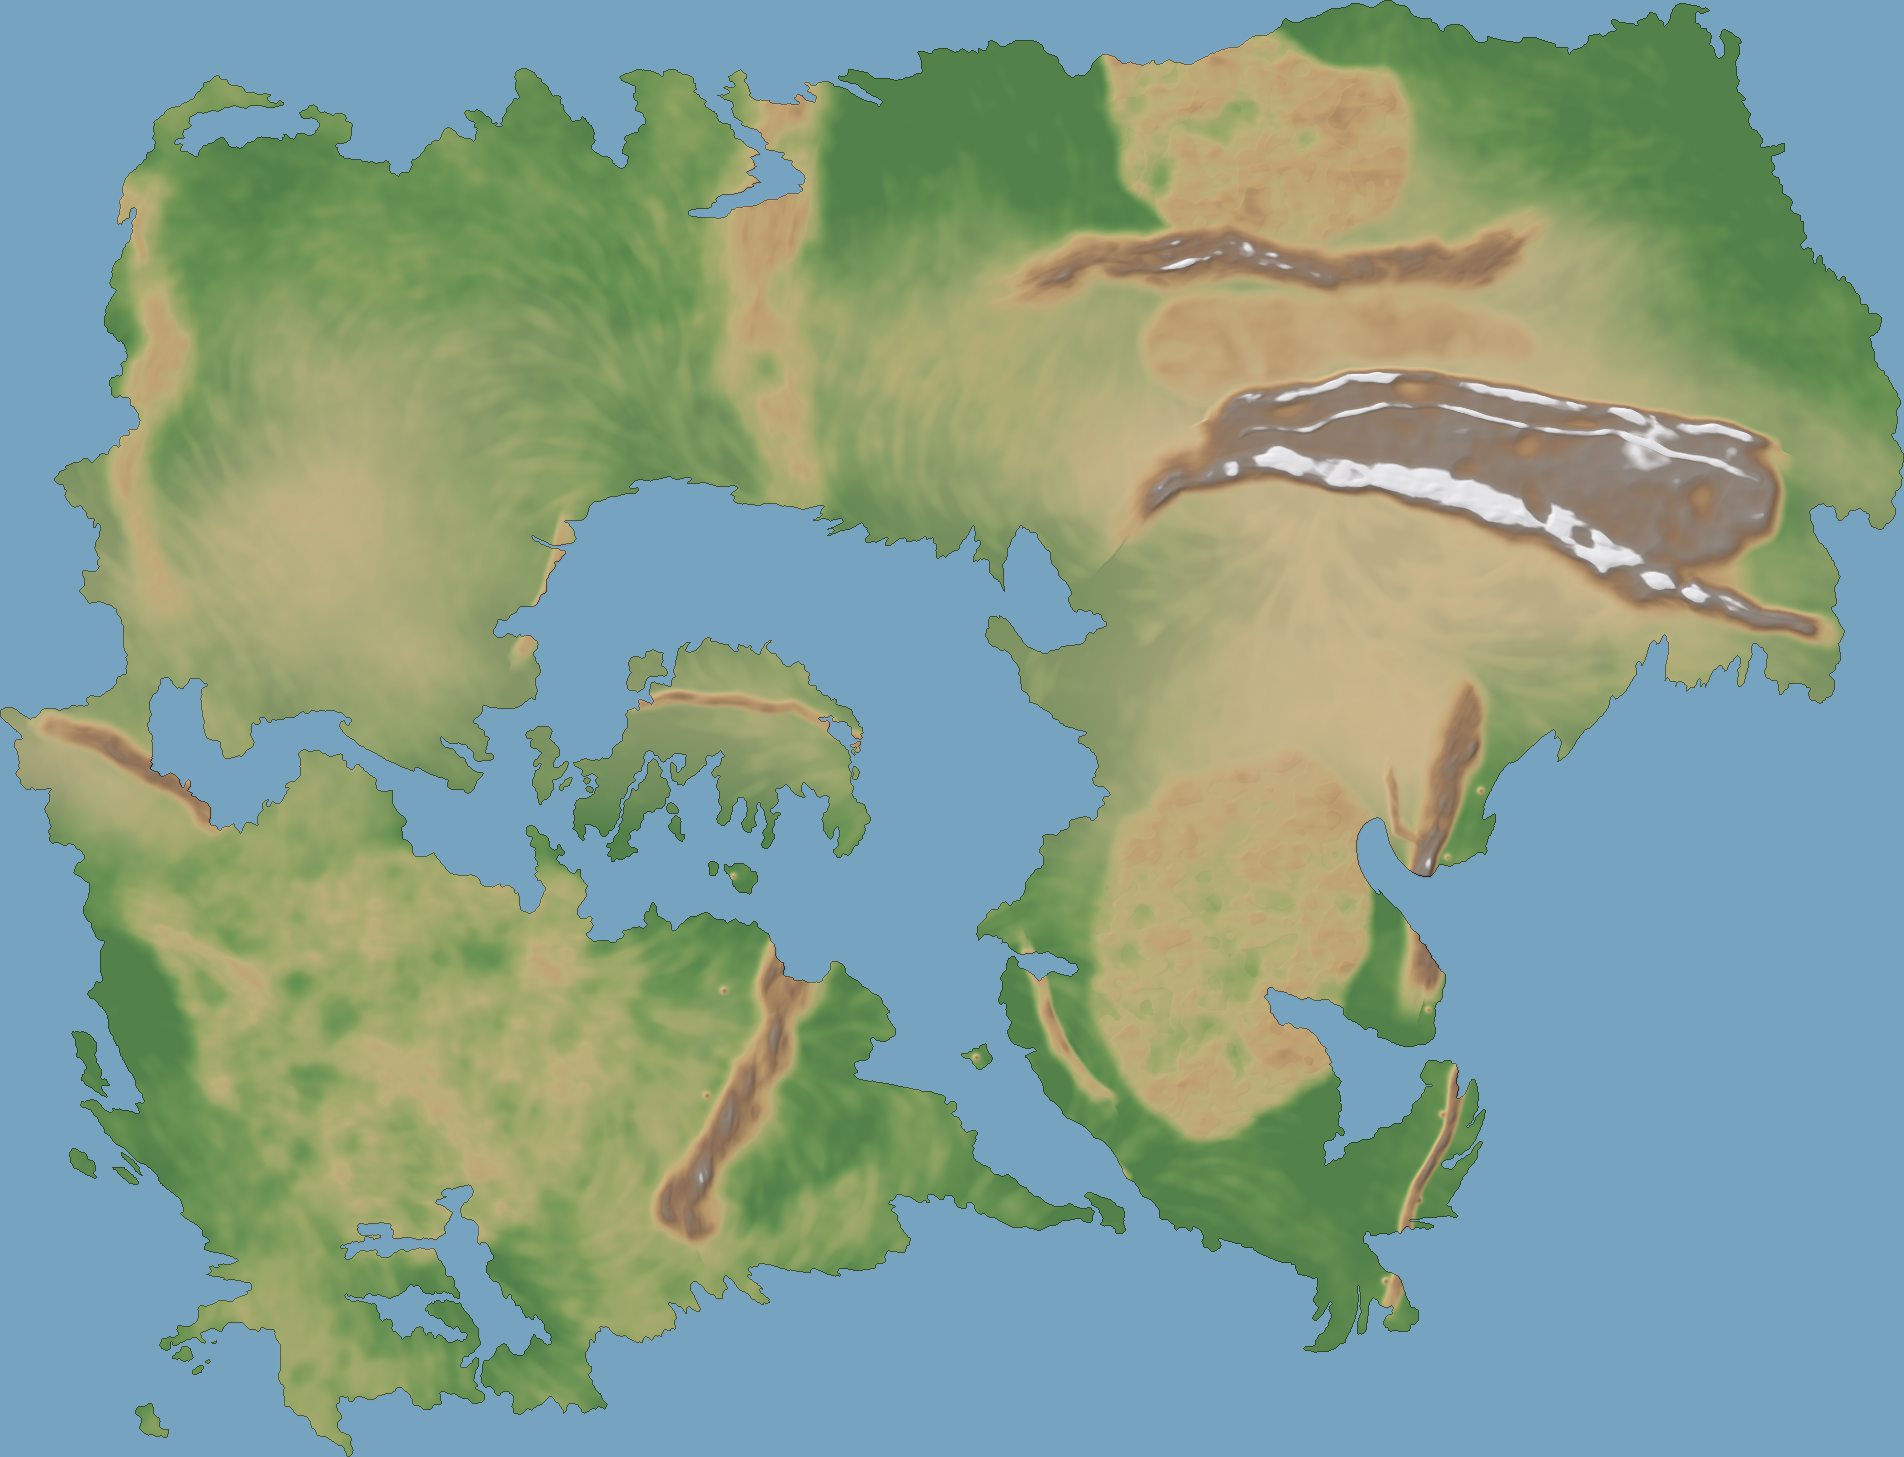
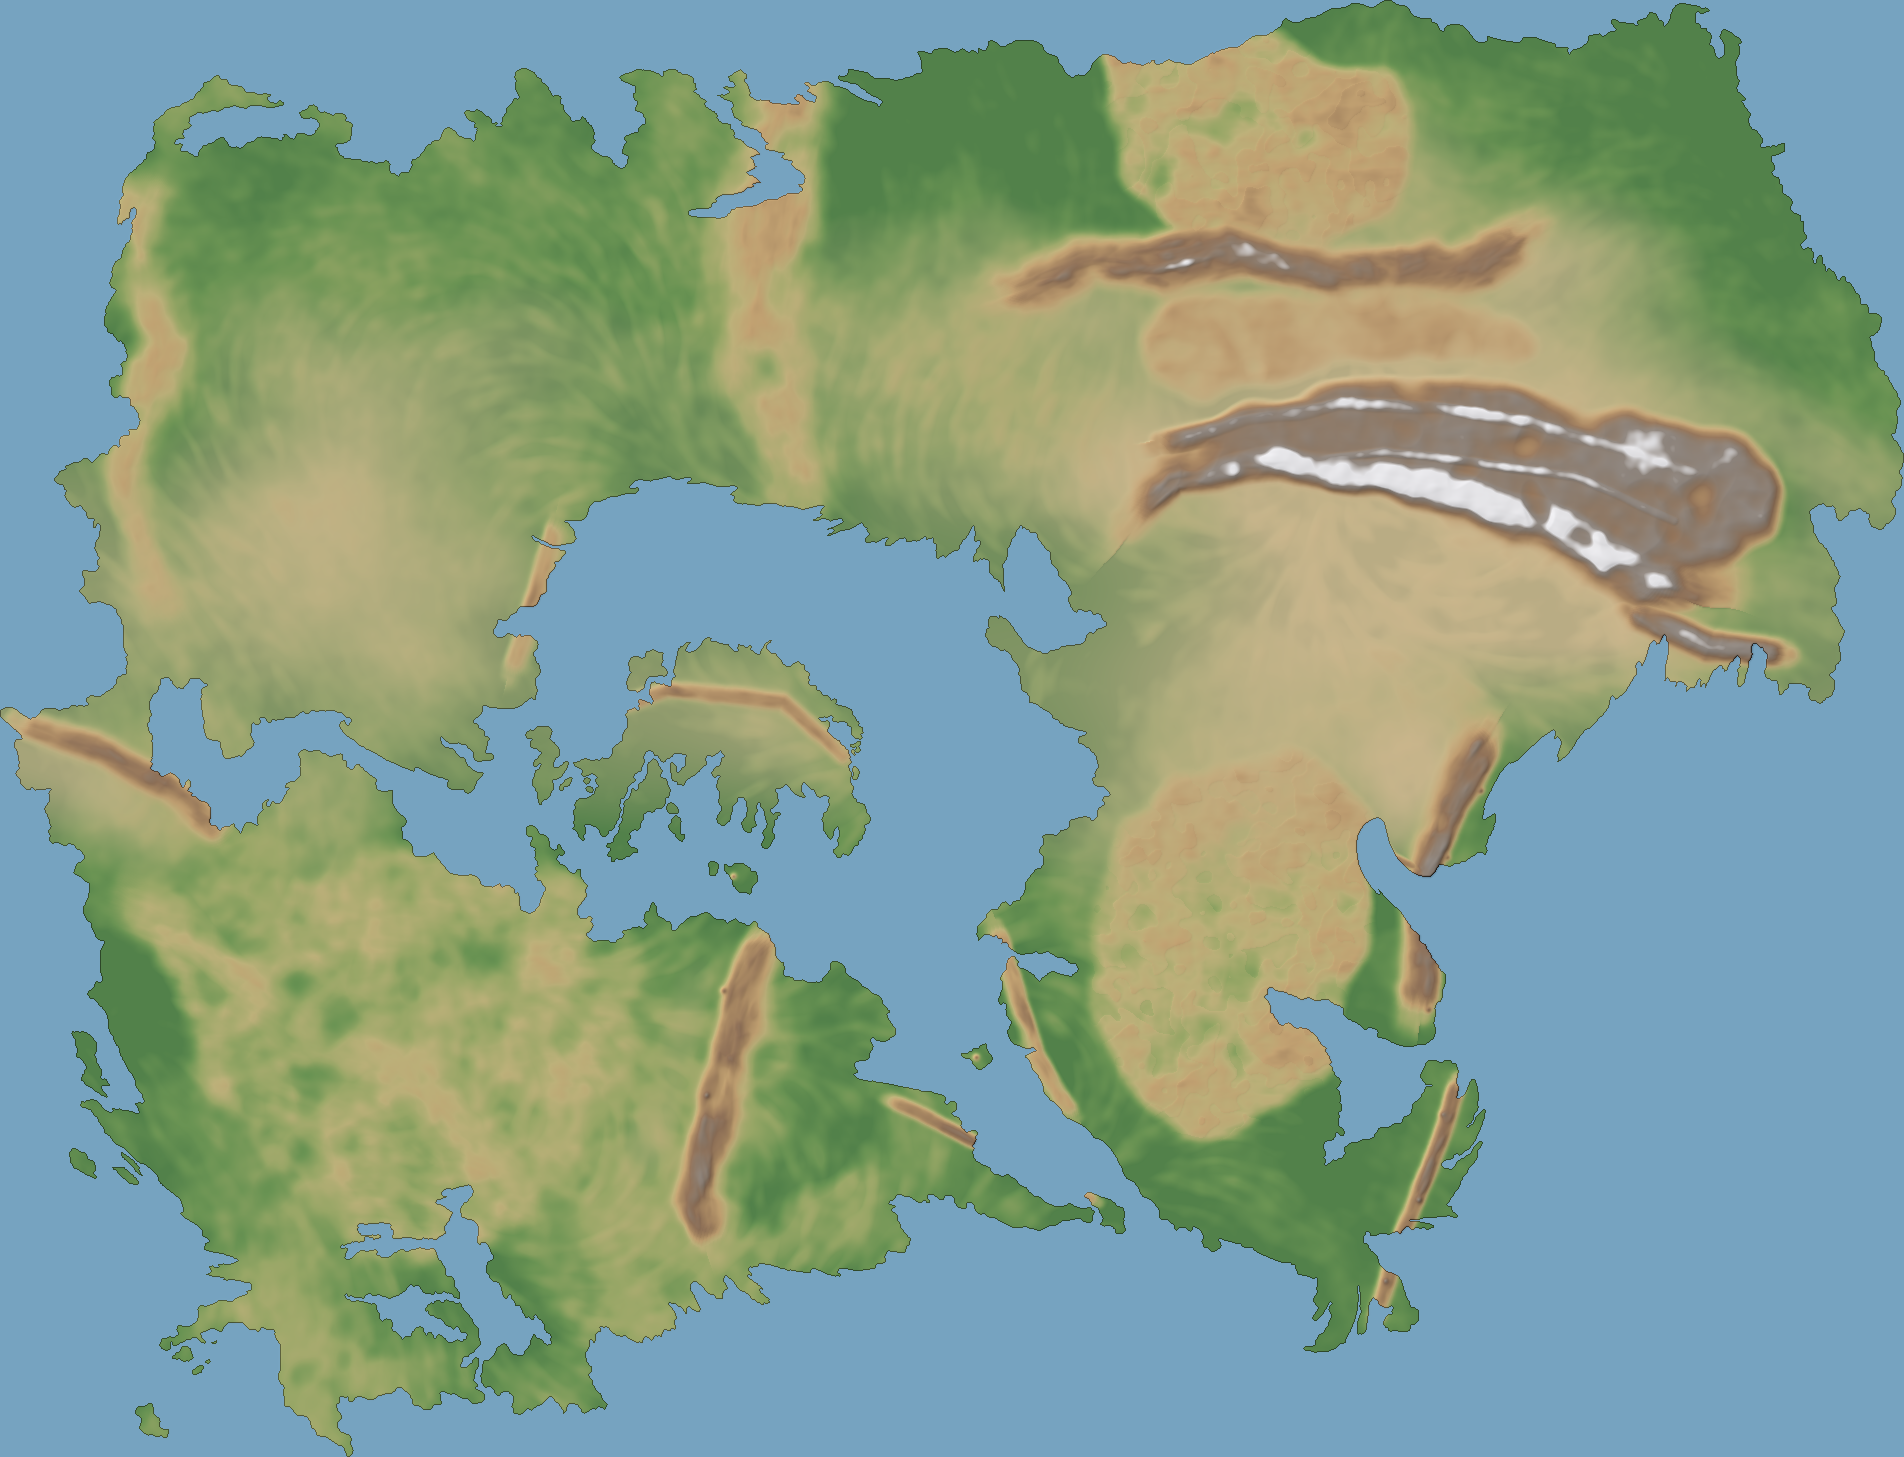
Tarih: dar kuşaklar için sınırlı bükme, zirve tavanı, ölçülen tepe yükseklikleri
Claude-Session: https://claude.ai/code/session_01TrTgWsQ7k9npTcPJkL6aYQ

diff --git a/tarih/arazi.py b/tarih/arazi.py
@@ -86,10 +86,17 @@ WY = (_g(600) * 110 + _g(160) * 35 + _g(50) * 8) / 4.2
 XYW = np.stack([(CC + WX).ravel(), (RR + WY).ravel()], 1)
 
 
+def buk_payi(yari_km):
+    """Dar kuşaklar daha az bükülür (kıyıdaki ince sırtlar denize kaymasın)."""
+    return float(np.clip((yari_km - 20.0) / 100.0, 0.15, 1.0))
+
+
 def kusak_alani(cizgi, deger, yari_km, dik):
     """Her hücre için: uzaklık (km), tepe değeri, teğet, yan (+1 sağ, −1 sol)."""
     pts, vals, tan = cizgi_ornek(cizgi, deger)
     tr = cKDTree(pts)
+    b = buk_payi(yari_km)
+    XYW = np.stack([(CC + b * WX).ravel(), (RR + b * WY).ravel()], 1)
     d, i = tr.query(XYW, distance_upper_bound=yari_km * 4 / H_KM)
     ok = np.isfinite(d)
     i = np.where(ok, i, 0)
@@ -204,7 +211,8 @@ def yapi(kara):
     d = 1.1 * tepe(ana) + 0.6 * tepe(orta) + 0.45 * tepe(ikinci) * (0.4 + 0.6 * np.clip(ana + 0.5, 0, 1)) - 0.38
     yukseklik_payi = np.clip((z - taban) / 2500.0, 0, 1)
     gen = (0.35 + 0.65 * genc) * yukseklik_payi * (1 - 0.65 * PW)
-    z = z + 1500.0 * gen * d
+    tavan = 1.0 - 0.6 * np.clip((z - 3500.0) / 3000.0, 0, 1)
+    z = z + 1100.0 * gen * d * tavan
     # eski kuşakların izi: rastgele doğrultulu yaşlı sırtlar (kuşak dışı her yerde, 150 ile 350 m)
     aci = gurultu(900) * 1.6
     ox, oy = np.cos(aci).astype(np.float32), np.sin(aci).astype(np.float32)
@@ -416,16 +424,17 @@ def etiketle(im):
             for x in range(0, W, int(24 * s)):
                 d.line([(x, y), (x + 10 * s, y)], fill=(255, 255, 255, 90), width=max(1, int(s)))
             d.text((6 * s, y + 2 * s), f"{abs(la)}°{'K' if la >= 0 else 'G'}", fill=(255, 255, 255), font=f(13))
-    def bukulmus(x, y):
+    def bukulmus(x, y, b=1.0):
         """Yapı katmanındaki alan bükmesi: çizgideki nokta haritada (x − WX, y − WY) yerine düşer."""
         gx, gy = int(np.clip(x * G, 0, NX - 1)), int(np.clip(y * G, 0, NY - 1))
-        return x - WX[gy, gx] / G, y - WY[gy, gx] / G
+        return x - b * WX[gy, gx] / G, y - b * WY[gy, gx] / G
     kus = {k[0]: k[1] for k in O.KUSAKLAR}
+    kyari = {k[0]: k[3] for k in O.KUSAKLAR}
     def kusak_yeri(ad, kay=(0, 0), oran=0.5):
         c = np.array(kus[ad], float); L = np.r_[0, np.cumsum(np.hypot(*np.diff(c, axis=0).T))]
         t = oran * L[-1]; i = min(np.searchsorted(L, t) - 1, len(c) - 2); i = max(i, 0)
         p = c[i] + (c[i + 1] - c[i]) * (t - L[i]) / max(L[i + 1] - L[i], 1e-6)
-        x, y = bukulmus(*p)
+        x, y = bukulmus(*p, buk_payi(kyari[ad]))
         return x + kay[0], y + kay[1]
     yazi = [
         ("1", (380, 330), 46, True), ("2", (1560, 120), 46, True), ("3", (1260, 980), 46, True), ("4", (330, 1150), 46, True),

diff --git a/tarih/belge.py b/tarih/belge.py
@@ -132,6 +132,31 @@ def zaman_cizelgesi():
     fig.tight_layout(); fig.savefig("cikti/zaman.png"); plt.close(fig)
 
 
+def olculen_tepeler():
+    """Son yüzeyde her kuşağın gerçek en yüksek noktası (bükülmüş çizgi çevresinde)."""
+    import arazi as R
+    from scipy import ndimage
+    z = np.load("cikti/son_z_tam.npy").astype(float)
+    ny, nx = z.shape; g = nx / O.GEN
+    zm = ndimage.maximum_filter(z, size=9)
+    out = {}
+    for ad, c, deger, yari, yas, dik in O.KUSAKLAR:
+        pts, _, _ = R.cizgi_ornek(c)
+        en = -1e9
+        for (px, py) in pts[::2] / R.G:
+            gx, gy = int(np.clip(px * R.G, 0, R.NX - 1)), int(np.clip(py * R.G, 0, R.NY - 1))
+            bp = R.buk_payi(yari)
+            x, y = px - bp * R.WX[gy, gx] / R.G, py - bp * R.WY[gy, gx] / R.G
+            r = int(min(yari, 40) / O.KM_PX * g * 0.6)
+            i, j = int(y * g), int(x * g)
+            win = z[max(i - r, 0):i + r + 1, max(j - r, 0):j + r + 1]
+            if win.size:
+                en = max(en, float(win.max()))
+        out[ad] = int(round(en, -1))
+    out["_genel"] = int(round(float(z.max()), -1))
+    return out
+
+
 def hiz_tablosu():
     """Anahtar karelerden hız: parça ağırlık merkezinin yer değiştirmesi (km / milyon yıl = mm/yıl)."""
     satir = []
@@ -235,9 +260,13 @@ def html():
     for ad, metin in BOLGELER:
         p.append(f"<h3>{ad}</h3><p>{metin}</p>")
     # yer şekilleri
+    if tepe_genel := (olculen_tepeler().get("_genel") if os.path.exists("cikti/son_z_tam.npy") else None):
+        p.append(f"<p>Kıtanın en yüksek noktası yaklaşık {tepe_genel:,} m".replace(",", ".") + "; Mor Sıradağları'nın doğu kesiminde. Yükseklikler aşınmadan sonraki yüzeyden ölçüldü.</p>")
     p.append("<h2>Bugünkü yer şekilleri ve nedenleri</h2><table><tr><th style='width:22%'>Yer şekli</th><th style='width:13%'>En yüksek (m)</th><th>Neden</th></tr>")
+    tepe = olculen_tepeler() if os.path.exists("cikti/son_z_tam.npy") else {}
     for ad, c, deger, yari, yas, dik in O.KUSAKLAR:
-        p.append(f"<tr><td><b>{ad}</b></td><td>{max(deger):,}".replace(",", ".") + f"</td><td>{NEDEN.get(ad, '')}</td></tr>")
+        v = tepe.get(ad, max(deger))
+        p.append(f"<tr><td><b>{ad}</b></td><td>{v:,}".replace(",", ".") + f"</td><td>{NEDEN.get(ad, '')}</td></tr>")
     for ad, pol, (y0, y1), _ in O.PLATOLAR:
         p.append(f"<tr><td><b>{ad}</b></td><td>{y0:,} ile {y1:,}".replace(",", ".") + f" (ortalama)</td><td>{PLATO_NEDEN.get(ad, '')}</td></tr>")
     p.append("</table>")
